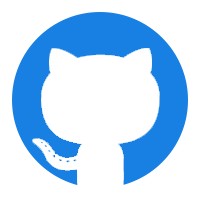
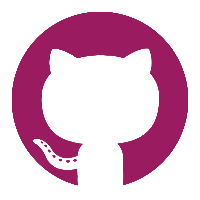
Update
Fixed colors, and bugs

diff --git a/index.html b/index.html
@@ -6,21 +6,20 @@
         <link rel="stylesheet" href="https://cdn.jsdelivr.net/npm/bootstrap@4.5.3/dist/css/bootstrap.min.css" integrity="sha384-TX8t27EcRE3e/ihU7zmQxVncDAy5uIKz4rEkgIXeMed4M0jlfIDPvg6uqKI2xXr2" crossorigin="anonymous">
         <link rel="stylesheet" href="css/style.css">
 
-        <title>Book Club</title>
+        <title>Bookbound</title>
     </head>
     <body>
 
     <!--    Navigation   -->
 
-    <nav class="navbar navbar-expand-lg navbar-light bg-light">
-        <img src="img/bookboundLogoBlack.png" width="105" height="30" class="d-inline-block align-top" alt="" loading="lazy">
+    <nav class="navbar navbar-light" style="background-color: #9b1b61;">
+        <img src="img/bookboundLogoGold.png" width="105" height="30" class="d-inline-block align-top" alt="" loading="lazy">
         <button class="navbar-toggler" type="button" data-toggle="collapse" data-target="#navbarNavAltMarkup" aria-controls="navbarNavAltMarkup" aria-expanded="false" aria-label="Toggle navigation">
           <span class="navbar-toggler-icon"></span>
         </button>
         <div class="collapse navbar-collapse" id="navbarNavAltMarkup">
           <div class="navbar-nav">
-            <a class="nav-link active" href="#">Home <span class="sr-only">(current)</span></a>
-            <a class="nav-link" href="#calendar-card">Meetings</a>
+            <a class="nav-link active" href="#calendar-card">Meetings</a>
             <a class="nav-link" href="#chat">Chat</a>
             <a class="nav-link" href="#meetup">Meetup</a>
             <a class="nav-link" href="#charity">Charity</a>
@@ -30,43 +29,6 @@
           </div>
         </div>
     </nav>
-
-    <nav class="navbar navbar-expand-lg navbar-light bg-light">
-        <a class="navbar-brand" href="#">Navbar</a>
-        <button class="navbar-toggler" type="button" data-toggle="collapse" data-target="#navbarSupportedContent" aria-controls="navbarSupportedContent" aria-expanded="false" aria-label="Toggle navigation">
-          <span class="navbar-toggler-icon"></span>
-        </button>
-      
-        <div class="collapse navbar-collapse" id="navbarSupportedContent">
-          <ul class="navbar-nav mr-auto">
-            <li class="nav-item active">
-              <a class="nav-link" href="#">Home <span class="sr-only">(current)</span></a>
-            </li>
-            <li class="nav-item">
-              <a class="nav-link" href="#">Link</a>
-            </li>
-            <li class="nav-item dropdown">
-              <a class="nav-link dropdown-toggle" href="#" id="navbarDropdown" role="button" data-toggle="dropdown" aria-haspopup="true" aria-expanded="false">
-                Dropdown
-              </a>
-              <div class="dropdown-menu" aria-labelledby="navbarDropdown">
-                <a class="dropdown-item" href="#">Action</a>
-                <a class="dropdown-item" href="#">Another action</a>
-                <div class="dropdown-divider"></div>
-                <a class="dropdown-item" href="#">Something else here</a>
-              </div>
-            </li>
-            <li class="nav-item">
-              <a class="nav-link disabled" href="#" tabindex="-1" aria-disabled="true">Disabled</a>
-            </li>
-          </ul>
-          <form class="form-inline my-2 my-lg-0">
-            <input class="form-control mr-sm-2" type="search" placeholder="Search" aria-label="Search">
-            <button class="btn btn-outline-success my-2 my-sm-0" type="submit">Search</button>
-          </form>
-        </div>
-      </nav>
-
 
     <!--    Carousel  For Desktop  -->
     <div id="carouselHold" class="carousel slide" data-ride="carousel">
@@ -198,7 +160,7 @@
             <div class="calendar-modal-bg"></div>
         </div>
         <div class="legend">
-            <span class="blue-legend"></span>
+            <span class="gold-legend"></span>
             <p>= Today's Date</p>
             <span class="purple-legend"></span>
             <p>= Next Meeting</p>
@@ -435,11 +397,11 @@
                 </div>
             </div>
         </div>
-        <a class="carousel-control-prev" href="#carouselExampleIndicators2" role="button" data-slide="prev">
+        <a class="carousel-control-prev" href="#staff" role="button" data-slide="prev">
           <span class="carousel-control-prev-icon" aria-hidden="true"></span>
           <span class="sr-only">Previous</span>
         </a>
-        <a class="carousel-control-next" href="#carouselExampleIndicators2" role="button" data-slide="next">
+        <a class="carousel-control-next" href="#staff" role="button" data-slide="next">
           <span class="carousel-control-next-icon" aria-hidden="true"></span>
           <span class="sr-only">Next</span>
         </a>
@@ -621,10 +583,7 @@
         <p>All Rights Reserved</p>
     </footer>
 
-
     <script type='text/javascript' src='https://cdn.scaledrone.com/scaledrone.min.js'></script>
-    <script src="https://code.jquery.com/jquery-3.5.1.slim.min.js" integrity="sha384-DfXdz2htPH0lsSSs5nCTpuj/zy4C+OGpamoFVy38MVBnE+IbbVYUew+OrCXaRkfj" crossorigin="anonymous"></script>
-    <script src="https://cdn.jsdelivr.net/npm/bootstrap@4.5.3/dist/js/bootstrap.bundle.min.js" integrity="sha384-ho+j7jyWK8fNQe+A12Hb8AhRq26LrZ/JpcUGGOn+Y7RsweNrtN/tE3MoK7ZeZDyx" crossorigin="anonymous"></script>
     <script src="https://code.jquery.com/jquery-3.5.1.slim.min.js" integrity="sha384-DfXdz2htPH0lsSSs5nCTpuj/zy4C+OGpamoFVy38MVBnE+IbbVYUew+OrCXaRkfj" crossorigin="anonymous"></script>
     <script src="https://cdn.jsdelivr.net/npm/popper.js@1.16.1/dist/umd/popper.min.js" integrity="sha384-9/reFTGAW83EW2RDu2S0VKaIzap3H66lZH81PoYlFhbGU+6BZp6G7niu735Sk7lN" crossorigin="anonymous"></script>
     <script src="https://cdn.jsdelivr.net/npm/bootstrap@4.5.3/dist/js/bootstrap.min.js" integrity="sha384-w1Q4orYjBQndcko6MimVbzY0tgp4pWB4lZ7lr30WKz0vr/aWKhXdBNmNb5D92v7s" crossorigin="anonymous"></script>

diff --git a/css/style.css b/css/style.css
@@ -1,7 +1,22 @@
 
+/*    Navigation   */
+/* 
+.navbar {
+    background-color: #9b1b61;
+    color:white;
+} */
 
+.nav-link {
+    color: white;
+}
 
+.navbar-light .navbar-nav .nav-link {
+    color: white;
+}
 
+.navbar-light .navbar-nav .active>.nav-link, .navbar-light .navbar-nav .nav-link.active, .navbar-light .navbar-nav .nav-link.show, .navbar-light .navbar-nav .show>.nav-link {
+    color: #e7b838;
+}
 
 
 /*      Carousel      */
@@ -58,7 +73,7 @@
 }
 
 .card-header:first-child {
-    background-color: rgb(23, 128, 226);
+    background-color: #9b1b61;
     border-radius: 40px 0 0 0;
     margin: 0;
     height: 40px;
@@ -107,7 +122,7 @@
 }
 
 .bg-today {
-    background-color: #1780e2;
+    background-color: #e7b838;
     color: white;
 }
 
@@ -116,8 +131,8 @@
     color: white;
 }
 
-.blue-legend {
-    background-color: #1780e2;
+.gold-legend {
+    background-color: #e7b838;
 }
 
 .purple-legend {
@@ -131,8 +146,8 @@
 #previous, #next {
     width: 48%;
     margin: 0 1%;
-    background-color: #1780e2;
-    border-color: #1369b9;
+    background-color: #9b1b61;
+    border: 2px solid #64113f;
     color: white;
 }
 
@@ -214,8 +229,6 @@
     color: white;
 }
 
-
-
 /*      Chat box    */
 
 .chat-hold {
@@ -291,7 +304,7 @@ ul {
 .message-form_button {
   margin: 10px;
   border-radius: 5px;
-  background-color: #1780e2;
+  background-color: #9b1b61;
   color: white;
 }
 
@@ -325,7 +338,7 @@ figcaption {
 .charity-link {
     width: 80%;
     margin: 0 10%;
-    background-color: #1780e2;
+    background-color: #9b1b61;
     color: white;
     text-align: center;
     padding: 4px;
@@ -360,6 +373,7 @@ figcaption {
 .signup {
     width: 80%;
     margin: 0 10%;
+    background-color: #9b1b61;
 }
 
 /*      Contact    */
@@ -422,7 +436,7 @@ figcaption {
 /*    Staff    */
 
 .staff-greet {
-    color: #1780e2;
+    color: #9b1b61;
     width: 100%;
     text-align: center;
 }
@@ -446,7 +460,7 @@ figcaption {
 
 .staff-name-hold {
     position: relative;
-    background-color: #1780e2;
+    background-color: #9b1b61;
     color: white;
     text-align: center;
     z-index: 2;
@@ -601,7 +615,7 @@ figcaption {
   footer {
       width: 100%;
       height: 50px;
-      background-color: #1780e2;
+      background-color: #9b1b61;
       color: white;
       display: flex;
       justify-content: space-evenly;
